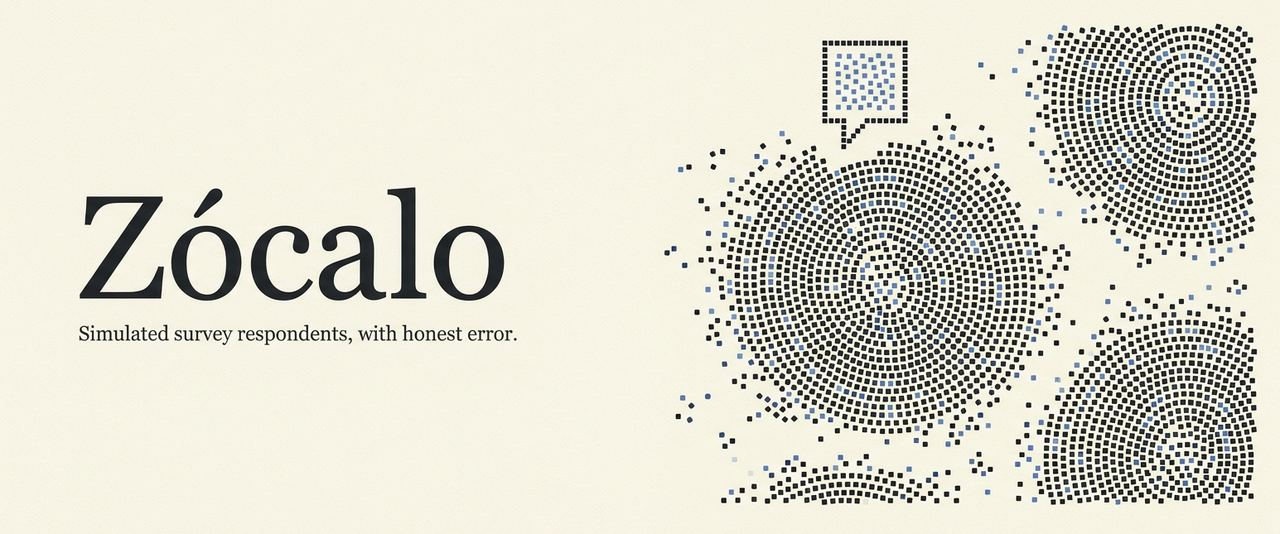
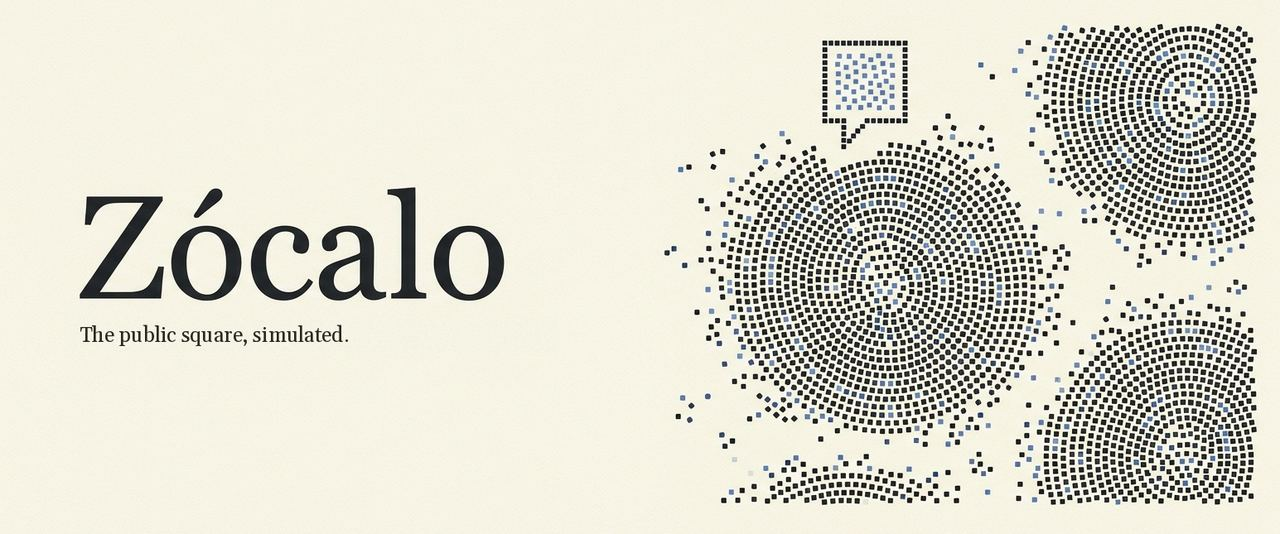
New tagline: The public square, simulated.

Changed region(s): [[0.0625, 0.5993, 0.4062, 0.6592]]

diff --git a/app/zocalo/web/static/js/views/home.js b/app/zocalo/web/static/js/views/home.js
@@ -7,7 +7,7 @@ export async function render(_, v) {
   const [st, models, pops] = await Promise.all([GET("/api/studies"), GET("/api/models"), GET("/api/populations")]);
   const hasModel = models.models.some(m => m.enabled), hasPop = pops.populations.length > 0;
   v.append(h("div.page-head",
-    h("h1", t("Ask anyone."), h("br"), h("span", t("Simulated people, honest error."))),
+    h("h1", t("Ask anyone."), h("br"), h("span", t("The public square, simulated."))),
     h("div.actions", h("a.btn", { href: "#/studies/new" }, t("new study")))));
   if (!hasModel || !hasPop || !st.studies.length) {
     const step = (n, done, title, text, href, cta) => h("div.card", { style: { opacity: done ? .62 : 1 } },

diff --git a/app/zocalo/web/index.html b/app/zocalo/web/index.html
@@ -4,7 +4,7 @@
 <meta charset="utf-8">
 <meta name="viewport" content="width=device-width, initial-scale=1, viewport-fit=cover">
 <title>Zócalo</title>
-<meta name="description" content="Simulated survey respondents, with honest error.">
+<meta name="description" content="The public square, simulated.">
 <meta name="theme-color" content="#efefe4" media="(prefers-color-scheme: light)">
 <meta name="theme-color" content="#1c1c1a" media="(prefers-color-scheme: dark)">
 <link rel="icon" href="/static/icons/favicon.svg" type="image/svg+xml" id="favicon">

diff --git a/README.md b/README.md
@@ -7,7 +7,7 @@
 <h1 align="center">Zócalo</h1>
 
 <p align="center">
-  <b>Simulated survey respondents, with honest error.</b><br>
+  <b>The public square, simulated.</b><br>
   Build a population from real census and survey records, ask it anything, talk to any person in it,<br>
   and see every answer with how far off it is likely to be, measured rather than assumed.<br>
   Open source, self-hosted, any model.
